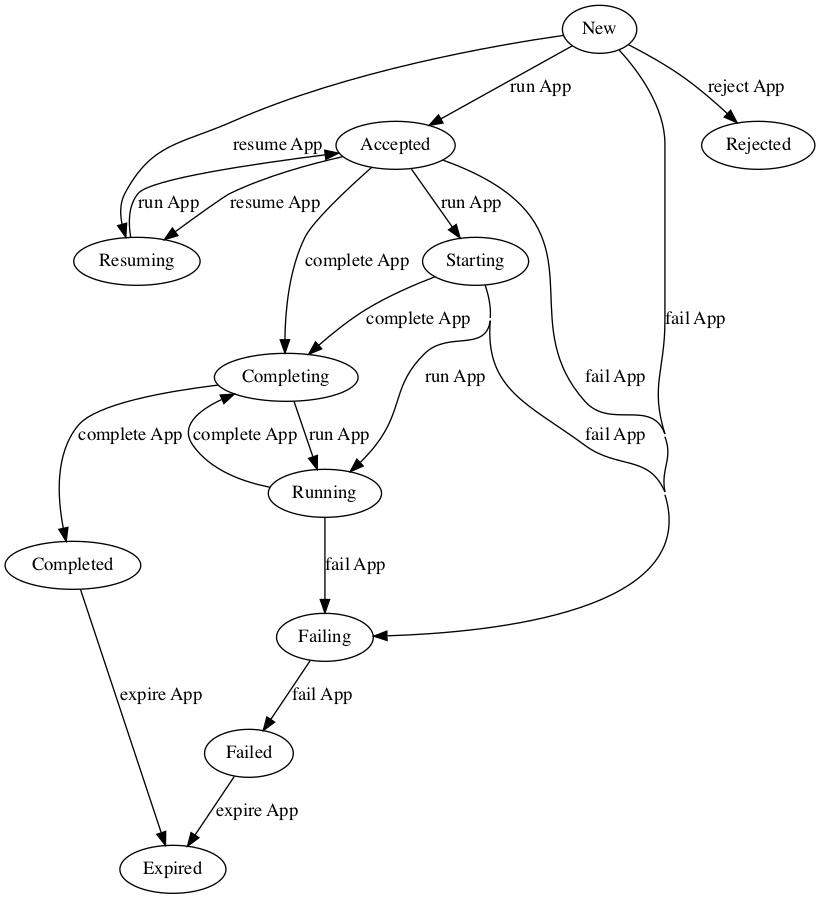
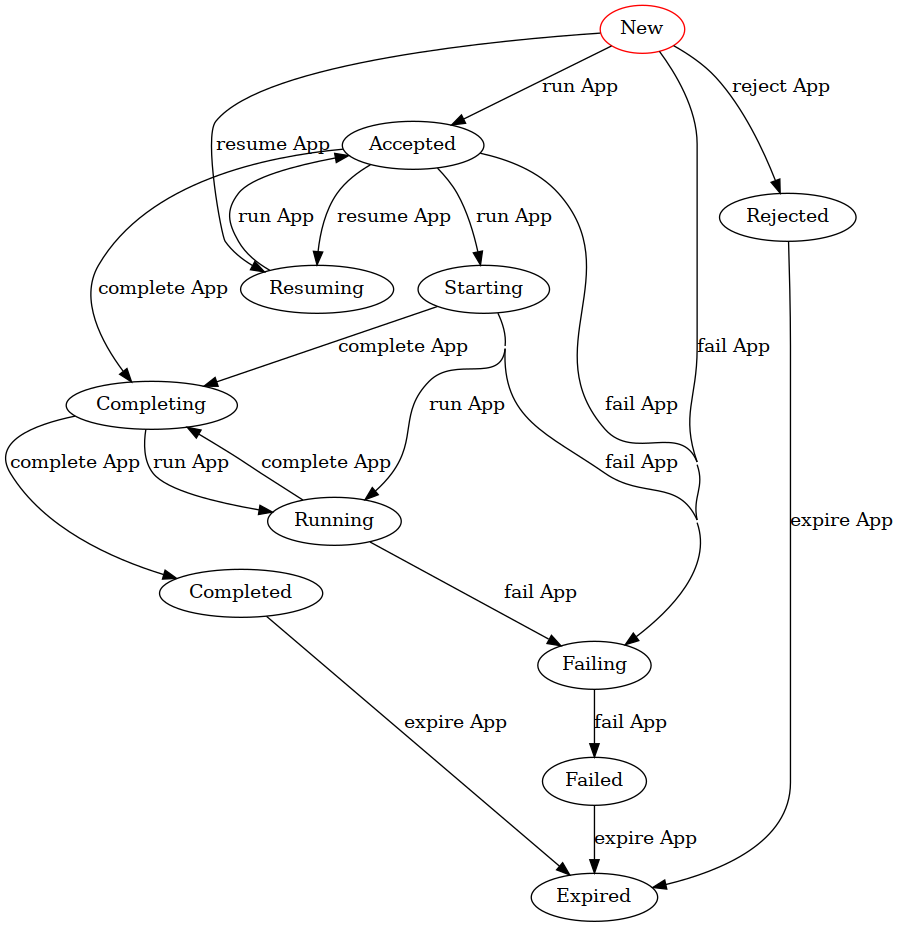
[YUNIKORN-2111] Update core application states (#364)
Moved scheduler_object_states.md from design folder to developer_guider
folder.
Updated links to the document and a new graph based on the latest states
for the application.

Closes: #364

diff --git a/sidebars.js b/sidebars.js
@@ -74,6 +74,7 @@ module.exports = {
             'developer_guide/deployment',
             'developer_guide/openshift_development',
             'developer_guide/translation',
+            'developer_guide/scheduler_object_states',
             {
                 type: 'category',
                 label: 'Designs',
@@ -93,7 +94,6 @@ module.exports = {
                     'design/priority_scheduling',
                     'design/resilience',
                     'design/state_aware_scheduling',
-                    'design/scheduler_object_states',
                     'design/config_v2',
                     'design/scheduler_configuration',
                 ]

diff --git a/docs/developer_guide/scheduler_object_states.md b/docs/developer_guide/scheduler_object_states.md
@@ -60,11 +60,10 @@ This is a final state and after this state the application cannot be tracked any
 * Failing: An application marked for failing, what still has some allocations or asks what needs to be cleaned up before entering into the Failed state. 
   The application can be Failing when the partition it belongs to is removed or during gang scheduling, if the placeholder processing times out, and the application has no real allocations yet.
 * Failed: An application is considered failed when it was marked for failure and all the pending requests and allocations were already removed.
-This is a final state. The application cannot change state after entering.
+From this state the application can only move to the Expired state.
 * Rejected: The application was rejected when it was added to the scheduler. 
 This only happens when a resource manager tries to add a new application, when it gets created in a New state, and the scheduler rejects the creation.
-Applications can be rejected due ACLs denying access to a queue the application has specified, or a placement via placement rules has failed. 
-This is a final state. The application cannot change state after entering.
+Applications can be rejected due ACLs denying access to a queue the application has specified, or a placement via placement rules has failed. From this state the application can only move to the Expired state.
 
 The events that can trigger a state change:
 * Reject: rejecting the application by the scheduler (source: core scheduler)

diff --git a/docs/design/gang_scheduling.md b/docs/design/gang_scheduling.md
@@ -181,7 +181,7 @@ The scheduler processes the AllocationAsk as follows:
 ## Application completion
 Application completion has been a long standing issue.
 Currently, applications do not transition to a _completed_ state when done.
-The current states for the application are [documented here](./scheduler_object_states.md).
+The current states for the application are [documented here](developer_guide/scheduler_object_states.md).
 However, at this point in time an application will not reach the _completed_ state and will be stuck in _waiting_.
 
 This provides a number of issues specifically around memory usage and cleanup of queues in long running deployments.

diff --git a/docs/user_guide/sorting_policies.md b/docs/user_guide/sorting_policies.md
@@ -92,7 +92,7 @@ Short description: limit of one (1) application in Starting or Accepted state
 Config value: `stateaware`
 
 This sorting policy requires an understanding of the application states.
-Applications states are described in the [application states](design/scheduler_object_states.md#application-state) documentation.
+Applications states are described in the [application states](developer_guide/scheduler_object_states.md#application-state) documentation.
 
 Before sorting applications the following filters are applied to all applications in the queue:
 The first filter is based on the application state.

diff --git a/i18n/zh-cn/docusaurus-plugin-content-docs/current/user_guide/sorting_policies.md b/i18n/zh-cn/docusaurus-plugin-content-docs/current/user_guide/sorting_policies.md
@@ -89,7 +89,7 @@ partitions:
 配置值： `stateaware`
 
 此排序策略需要了解应用程序状态。
-应用程序状态在[应用程序状态](design/scheduler_object_states.md#application-state)文档中进行了描述。
+应用程序状态在[应用程序状态](developer_guide/scheduler_object_states.md#application-state)文档中进行了描述。
 
 在对所有排队的应用程序进行排序之前，将应用以下过滤器：
 第一个过滤器基于应用程序状态。
